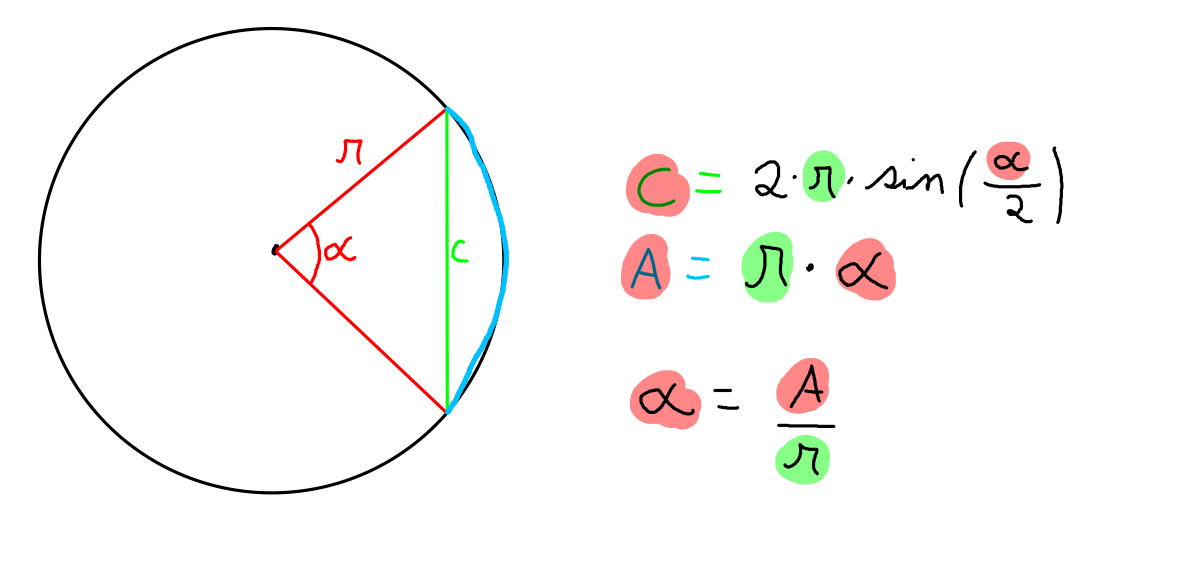
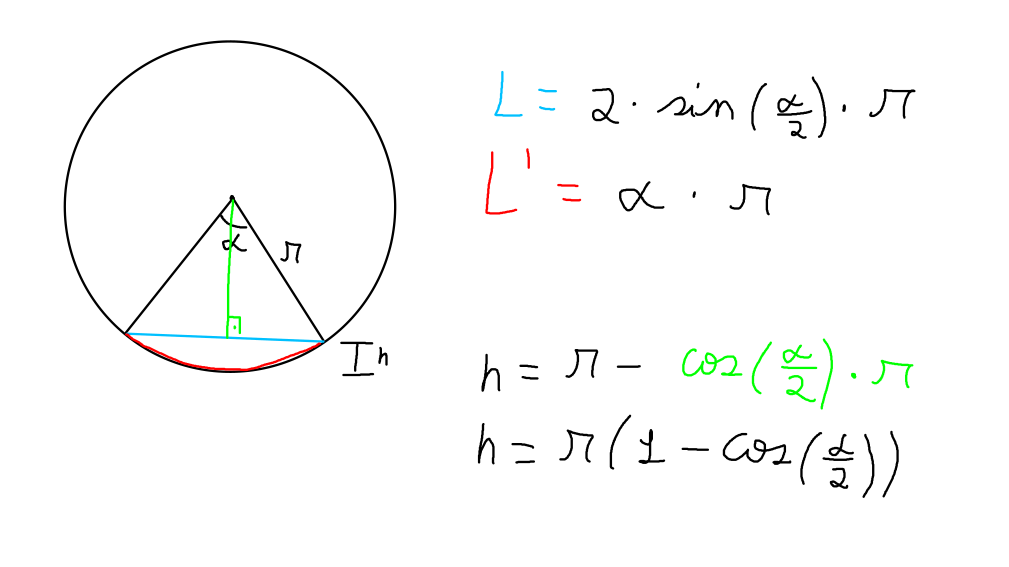
simplifying the explanation of j

diff --git a/geometria/03/j.cpp b/geometria/03/j.cpp
@@ -20,33 +20,33 @@ int main() {
 
   cout << fixed << setprecision(8);
   for (int i = 1; i <= n; i++) {
-    long double l, n, c;
-    cin >> l >> n >> c;
+    long double chord, n, c;
+    cin >> chord >> n >> c;
 
-    long double newLength = (1 + n * c) * l;
+    long double arc = (1 + n * c) * chord;
 
     long double rMax = 1e19;
     long double rMin = 0;
     long double r;
-    long double angle;
+    long double alpha;
     for (;;) {
       r = (rMax + rMin)/2;
 
-      angle = newLength/r;
-      long double chord = 2*r*sin(angle/2);
+      alpha = arc/r;
+      long double calculatedChord = 2*r*sin(alpha/2);
 
-      if (abs(chord - l) <= 1e-8) {
+      if (abs(calculatedChord - chord) <= 1e-8) {
         break;
       }
 
-      if (chord < l) {
+      if (calculatedChord < chord) {
         rMin = r;
       } else {
         rMax = r;
       }
     }
 
-    long double res = r - cos(angle / 2) * r;
+    long double res = r*(1 - cos(alpha / 2));
     cout << "Case " << i << ": " << res << endl;
   }
 }

diff --git a/geometria/03/j.md b/geometria/03/j.md
@@ -1,13 +1,20 @@
 ### First, analyze the problem:
 ![radius](/geometria/03/assets/j.png)
 
-We already have the chord length, and the arch length
+Note that we already have the values of the chord (`L`) and the arc (`L'`) of this circle. These values are given in the problem statement.
 
-Now, we only have two variables left to find (radius and alpha).
-But this two variables is proportional to the other, so finding one will cause
-to find the other.
+We can see that to calculate the height, we need the radius (`r`) and the angle ($\alpha$) of the sector of this circle.
 
-I've tried to binary search the alpha, but i got TLE.
-Trying to binary search the radius it worked perfectly fine.
+### How can we find both variables to calculate `h`?
 
-### So mow, binary search the radius and we can find all the others variables
+Although we have two variables, one can be found based on the other using the formula $L' = \alpha * r$
+
+Therefore, we can fix one of these variables and perform a binary search on the other.
+
+I tried performing a binary search on the angle and received TLE (Time Limit Exceeded). But when I performed a binary search on the radius, I received ACC (Accepted).
+
+The comparison to know that we found the correct radius and angle will be the chord (`L`)
+
+### Response.
+
+Now that we have both variables, just calculate h by the formula $h = r*(1 - cos(\alpha/2))$
